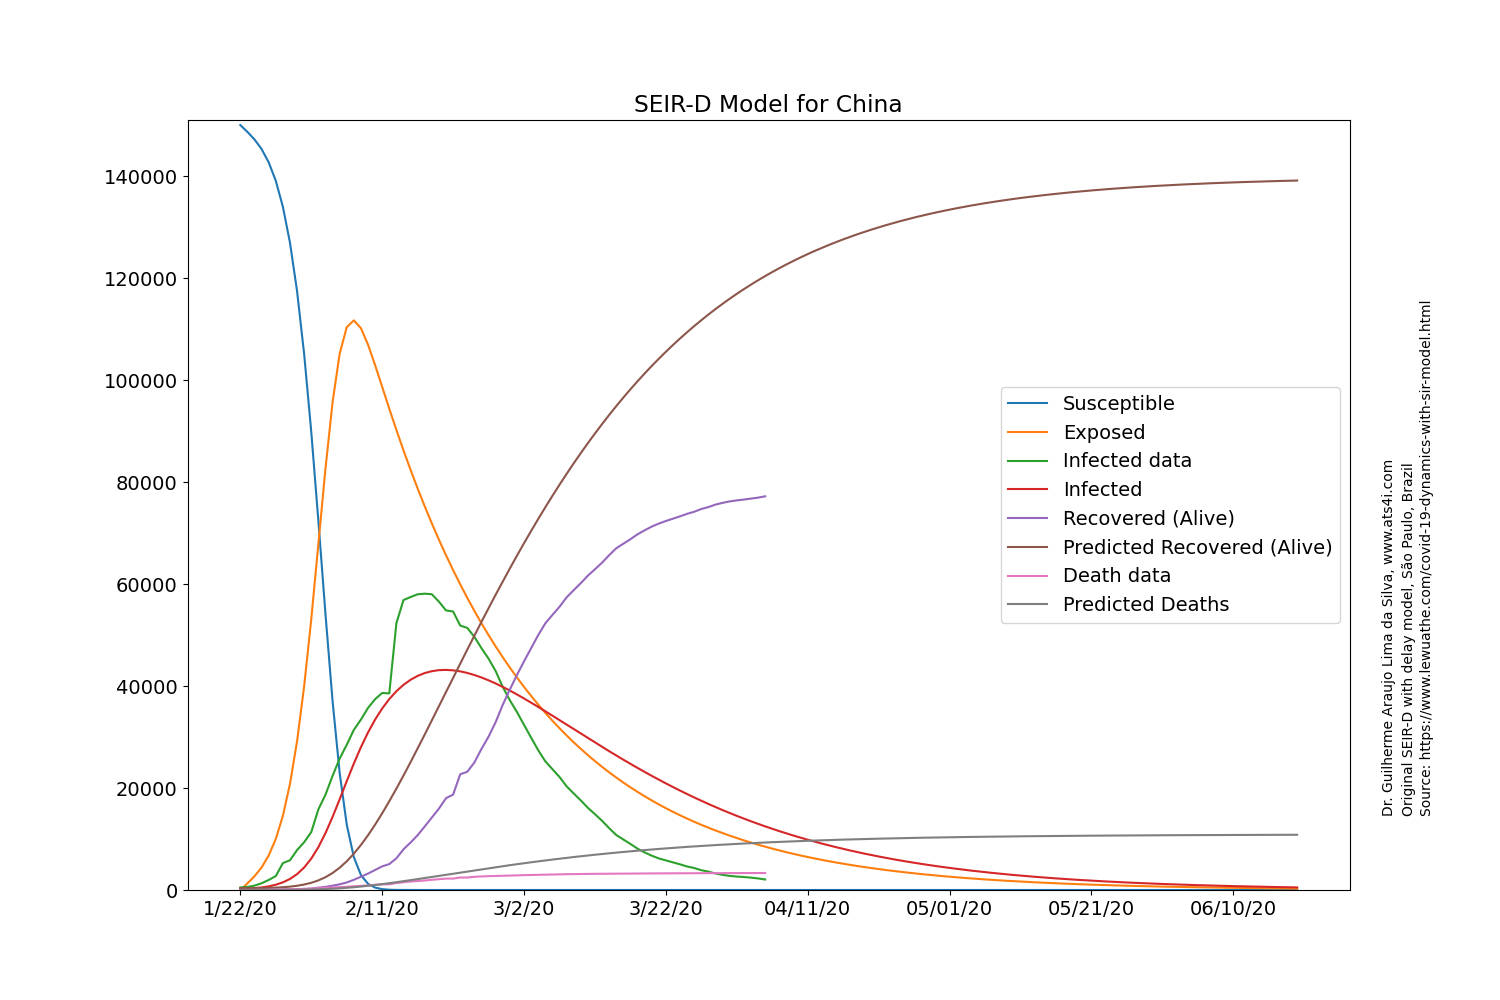
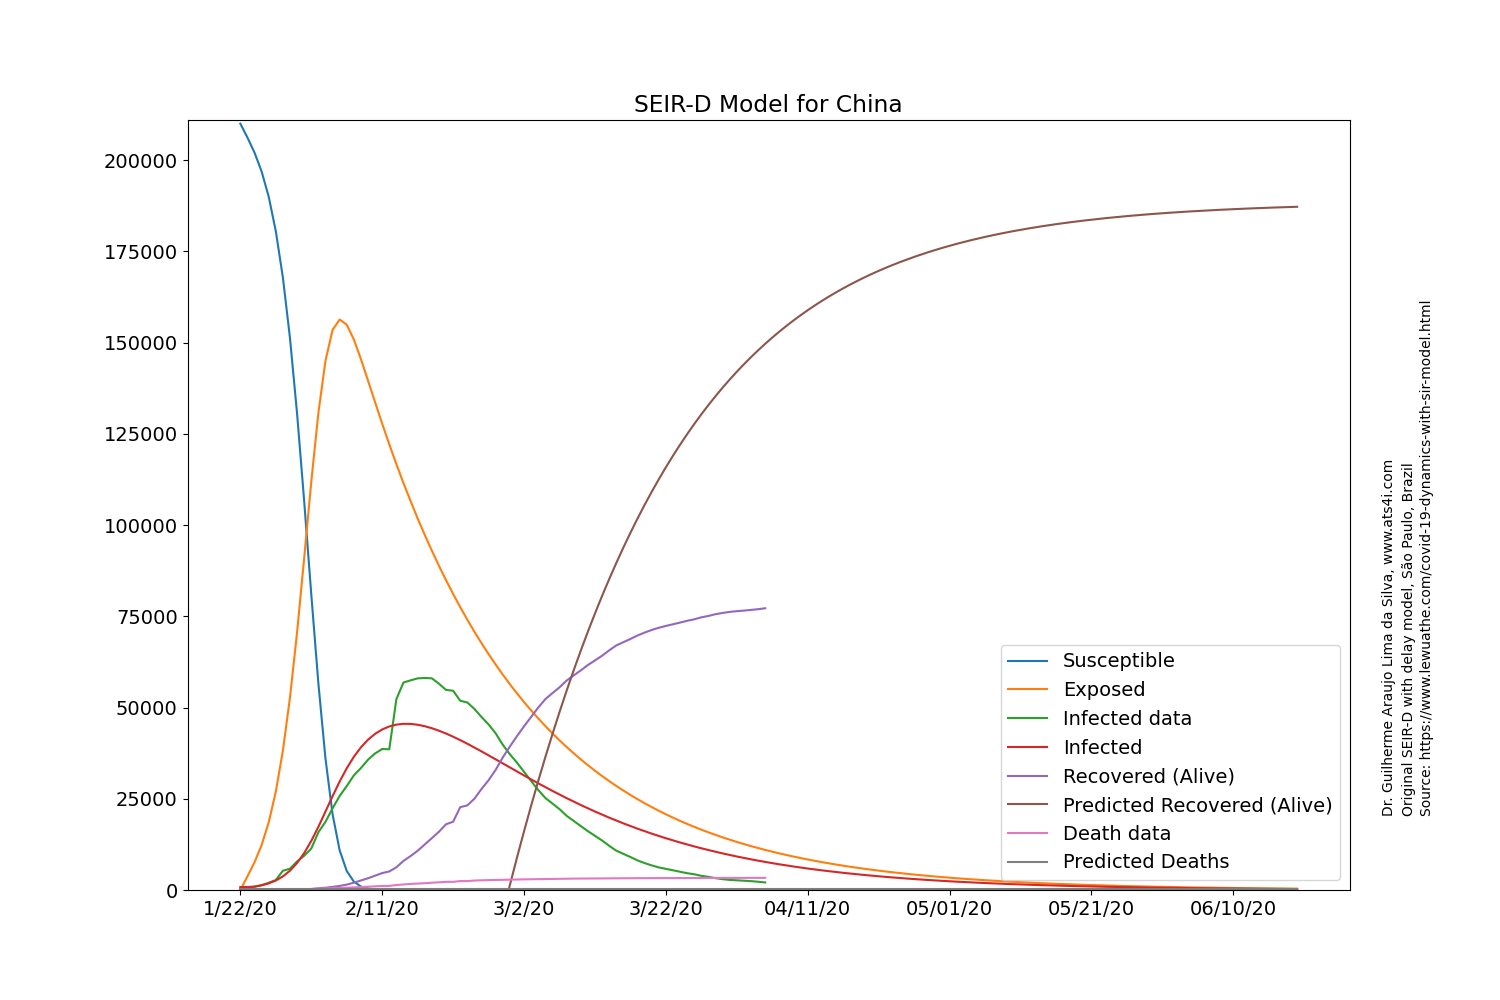
Trying to fit China

diff --git a/dataFit_SEIRD.py b/dataFit_SEIRD.py
@@ -65,10 +65,10 @@ def parse_arguments(country):
 
     if country1=="China":
         date="1/22/20"
-        s0=150000
+        s0=210e3
         e0=1e-4
-        i0=300
-        r0=300
+        i0=800
+        r0=-250e3
         k0=0
 
     if country1=="Italy":
@@ -358,10 +358,10 @@ def lossOdeint(point, data, recovered, death, s_0, e_0, i_0, r_0, d_0):
     l2 = np.sqrt(np.mean((res[:,3]- recovered)**2))
     l3 = np.sqrt(np.mean((res[:,4]- death)**2))
     #weight for cases
-    u = 0.5
-    #weight for recovered
-    w = 0.25 #Brazil Italy 0.25 #France
+    u = 0.8  #Brazil Italy 0.5
     #weight for deaths
+    w = 0.15 #Brazil Italy 0.25
+    #weight for recovered
     v = 1 - u - w
     return u*l1 + v*l2 + w*l3
 
